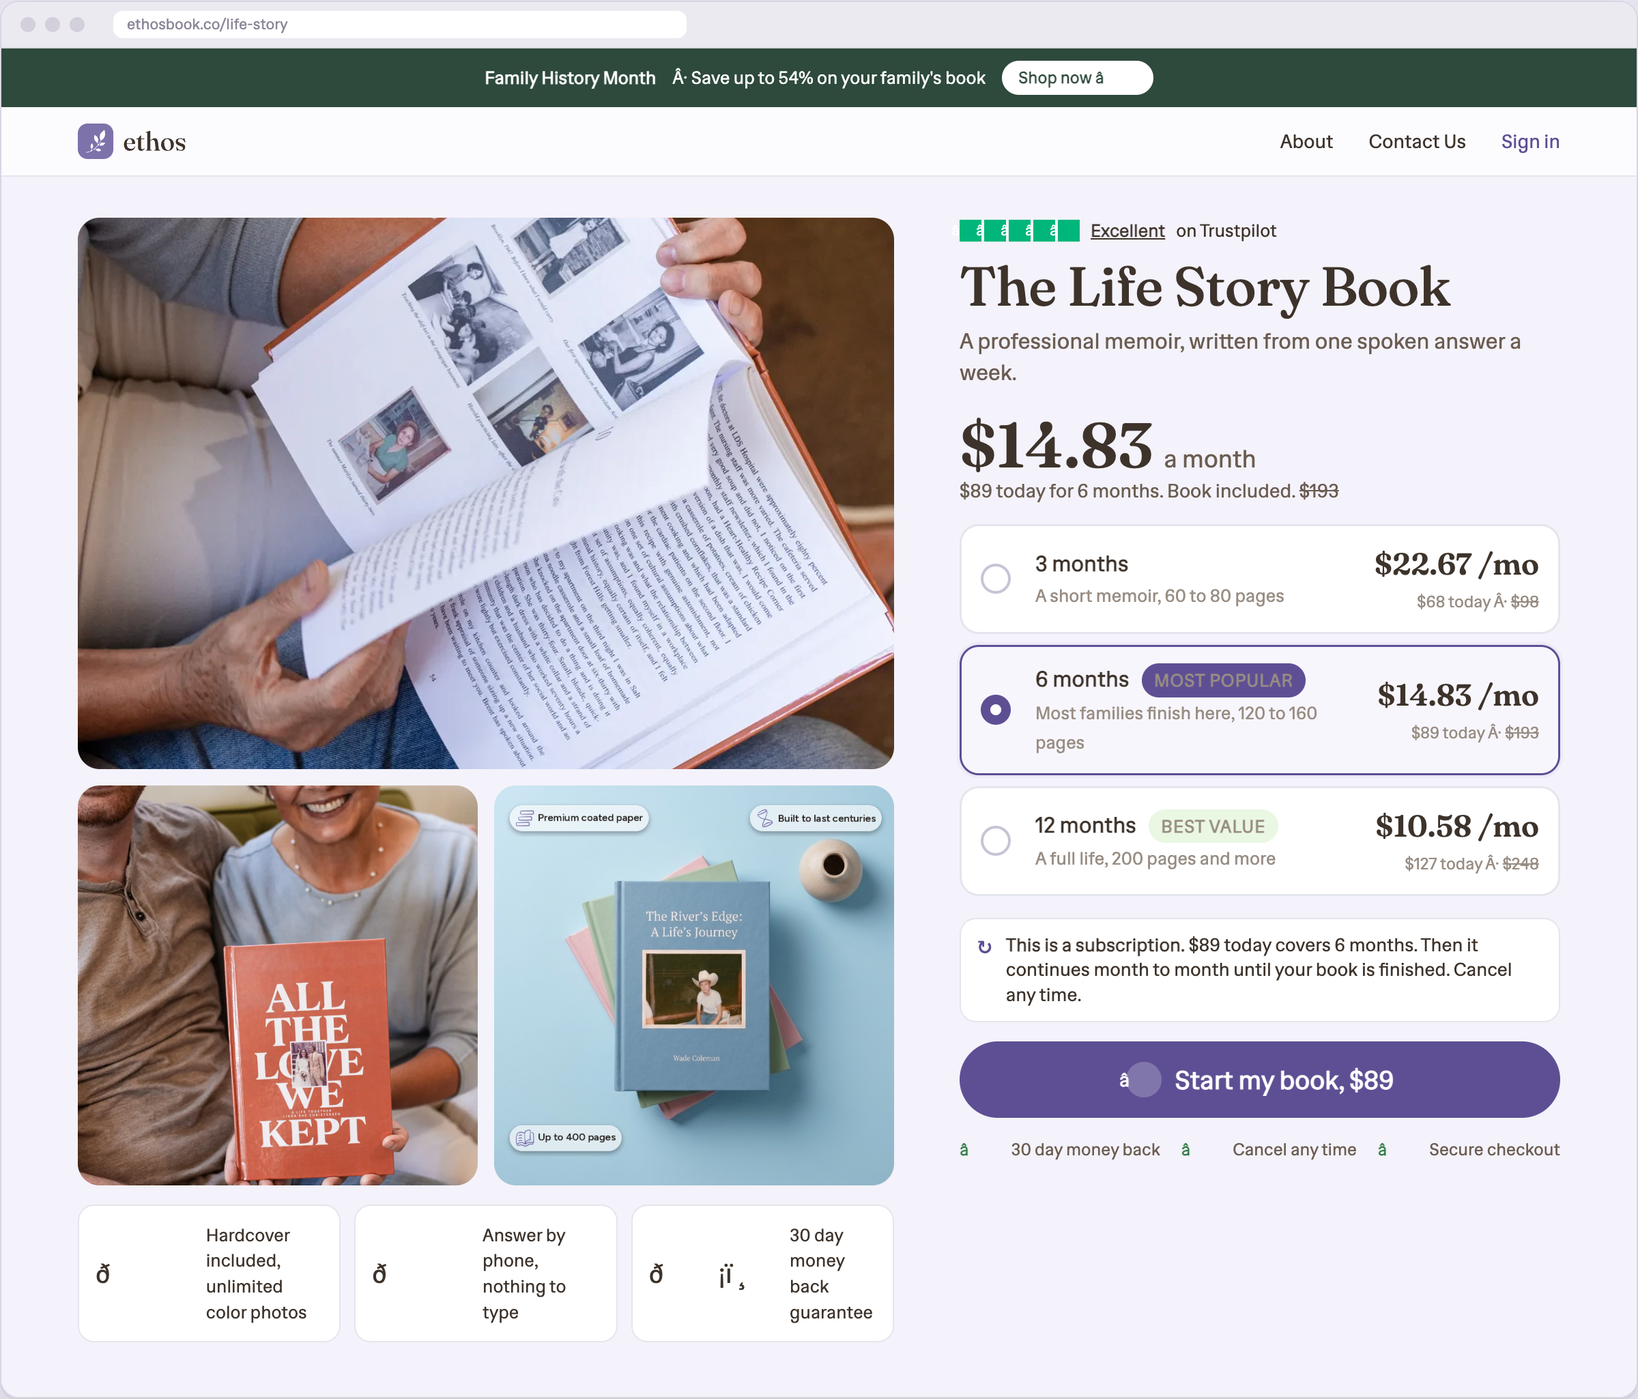
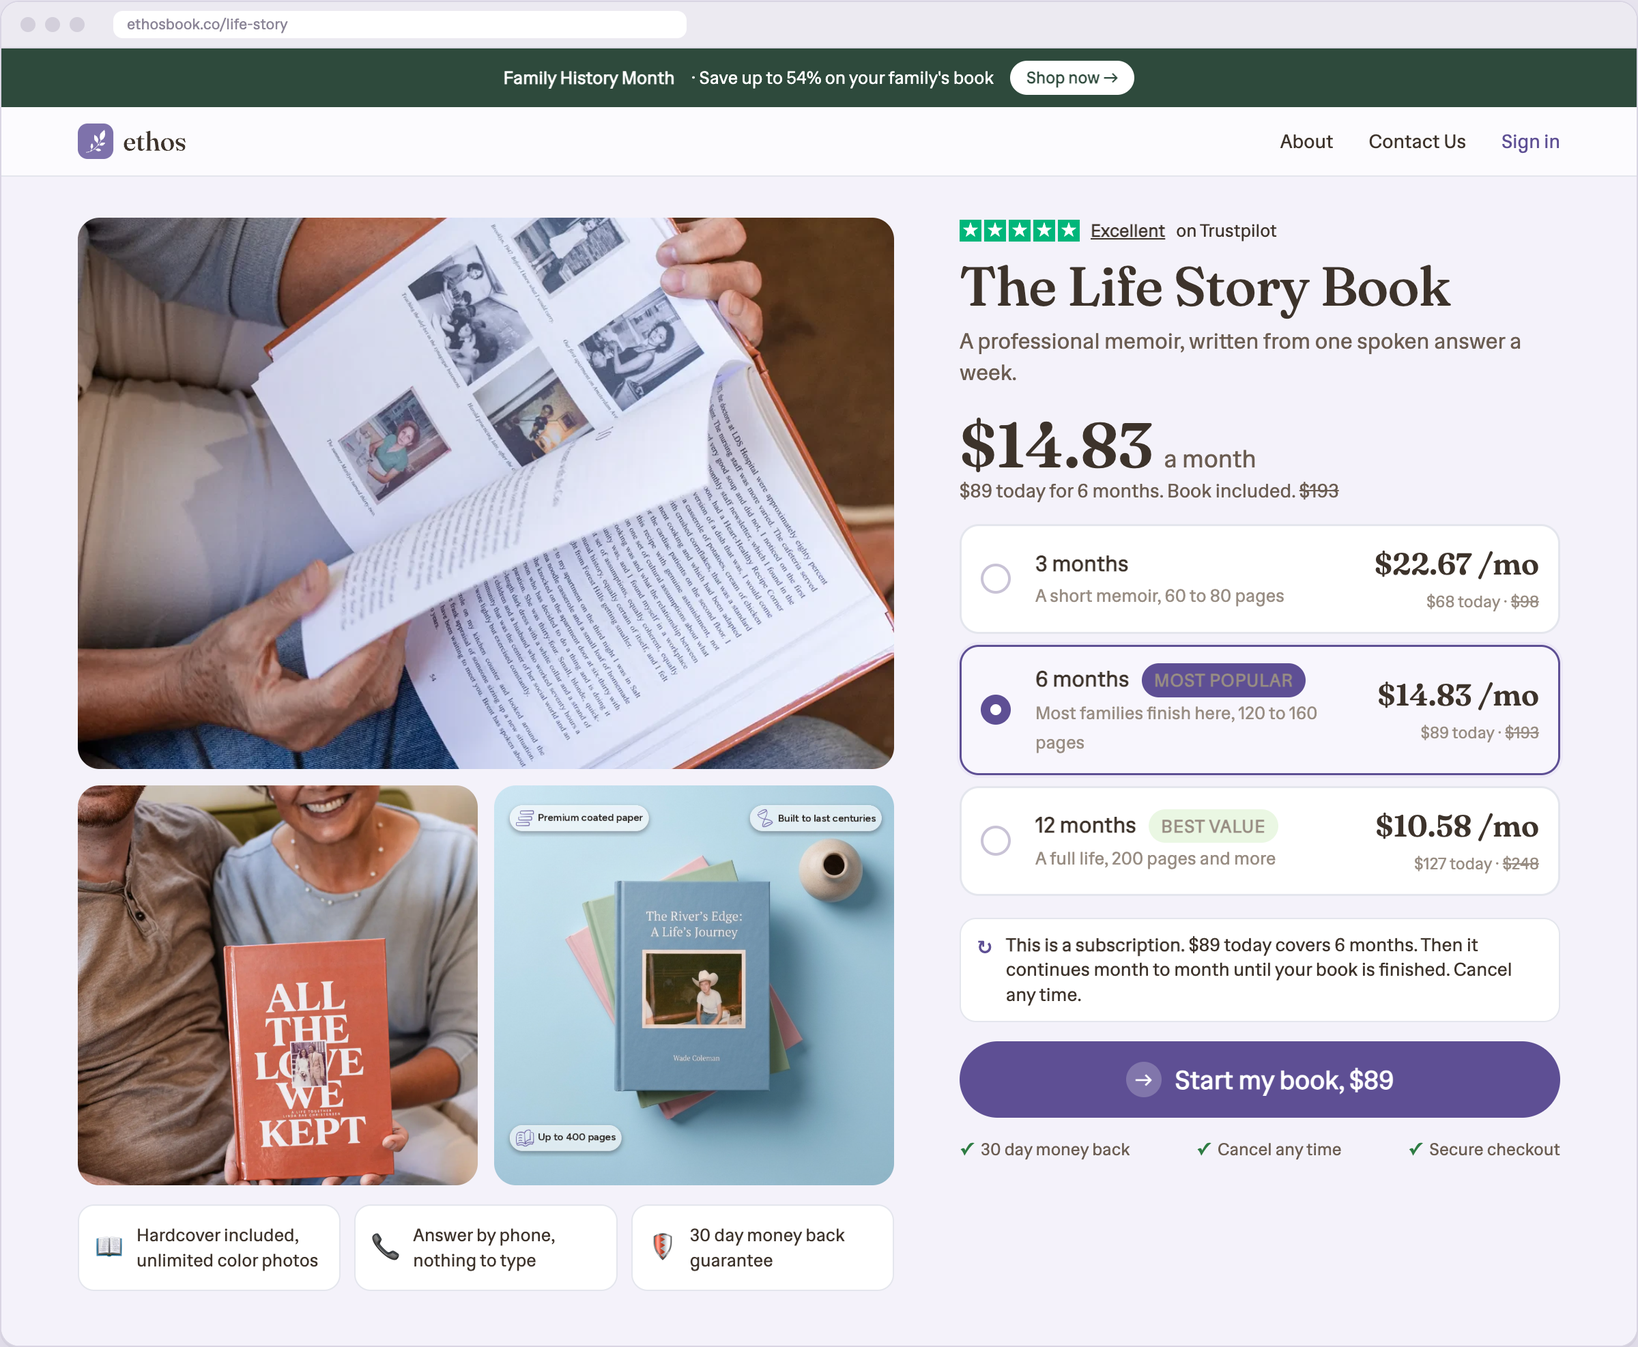
Clean rewrite + subscription note

diff --git a/product-page/desktop.html b/product-page/desktop.html
@@ -23,7 +23,6 @@
 .pdp{display:grid;grid-template-columns:1fr 440px;gap:48px;padding:30px 56px 40px}
 .gal{position:relative}.gal .main{width:100%;aspect-ratio:1;object-fit:cover;border-radius:18px;display:block}
 .thumbs{display:flex;gap:10px;margin-top:12px}.thumbs img{width:calc((100% - 40px)/5);aspect-ratio:1;object-fit:cover;border-radius:10px;border:2px solid transparent}.thumbs img.on{border-color:var(--accent)}
-.chip{position:absolute;background:rgba(255,255,255,.92);border-radius:999px;padding:6px 12px;font-size:12px;color:var(--ink);font-weight:600}
 .stars{display:inline-flex;gap:2px}.stars i{width:16px;height:16px;background:#00B67A;display:inline-flex;align-items:center;justify-content:center;color:#fff;font-size:11px;font-style:normal}
 .tp{display:flex;align-items:center;gap:8px;font-size:13px;color:var(--ink)}.tp b{text-decoration:underline}
 h1.t{font-family:var(--display);font-weight:500;font-size:40px;line-height:1.05;color:var(--ink);margin:10px 0 8px;letter-spacing:-.01em}
@@ -33,10 +32,8 @@ h1.t{font-family:var(--display);font-weight:500;font-size:40px;line-height:1.05;
 .trust{display:flex;justify-content:space-between;gap:10px;margin-top:14px;font-size:12.5px;color:var(--body)}.trust div{display:flex;align-items:center;gap:6px}.trust em{font-style:normal;color:var(--good);font-weight:700}
 .pay{display:flex;gap:6px;margin-top:12px}.pay span{border:1px solid var(--line);background:#fff;border-radius:6px;font-size:10px;font-weight:700;padding:5px 8px;color:#444}
 .subnote{display:flex;gap:10px;align-items:flex-start;background:#fff;border:1px solid var(--line);border-radius:12px;padding:10px 12px;font-size:13.5px;line-height:1.35;color:var(--ink);margin:0 0 14px}.subnote i{font-style:normal;font-size:18px;line-height:1;color:var(--accent)}.subnote b{font-weight:700}
-.fine{font-size:12.5px;color:var(--muted);margin-top:10px;line-height:1.4}
 .tag{display:inline-block;font-size:11px;font-weight:700;letter-spacing:.04em;text-transform:uppercase;border-radius:999px;padding:3px 9px}
 .tag.pop{background:var(--accent);color:#fff}.tag.save{background:var(--good-soft);color:var(--good)}
-/* B tiles */
 .tiles{display:grid;grid-template-columns:repeat(3,1fr);gap:10px;margin:14px 0 16px}
 .tile{border:1.5px solid var(--line);border-radius:14px;padding:12px 10px 10px;background:#fff;text-align:center;position:relative}
 .tile.on{border-color:var(--accent);background:#F8F6FD;box-shadow:0 0 0 2px var(--accent-soft)}
@@ -45,7 +42,6 @@ h1.t{font-family:var(--display);font-weight:500;font-size:40px;line-height:1.05;
 .price{display:flex;align-items:baseline;gap:10px;margin:4px 0 2px}.price .now{font-family:var(--display);font-size:40px;font-weight:600;color:var(--ink)}.price .was{font-size:18px;color:var(--muted);text-decoration:line-through}
 .pricenote{font-size:14px;color:var(--body);margin-bottom:2px}
 .inc{list-style:none;padding:0;margin:6px 0 16px;display:grid;grid-template-columns:1fr 1fr;gap:6px 14px;font-size:14px;color:var(--ink)}.inc li::before{content:"✓ ";color:var(--good);font-weight:700}
-/* C rows */
 .rows{display:grid;gap:8px;margin:14px 0 16px}
 .row{display:grid;grid-template-columns:28px 1fr auto;align-items:center;gap:12px;border:1.5px solid var(--line);border-radius:14px;padding:12px 14px;background:#fff}
 .row.on{border-color:var(--accent);background:#F8F6FD;box-shadow:0 0 0 2px var(--accent-soft)}
@@ -67,12 +63,10 @@ h1.t{font-family:var(--display);font-weight:500;font-size:40px;line-height:1.05;
 </style></head><body><div class="page">
 <div class="intro"><h1>Product page: four candidates, desktop</h1><p>A is the proposal as delivered. B, C, D are proper e-commerce product pages, each with a different way of showing the price. Above the fold only; everything below (FAQ, videos, reviews) stays as today.</p></div>
 
-<!-- A -->
 <div class="cand"><div class="cand-head"><div class="letter">A</div><div><h2>The proposal, as delivered <span class="pstyle">Price: red "Save up to 49%" pill + stacked plan cards + $177 extras list</span></h2><p>Gallery left, quiz offer card right. Two headlines compete (The Life Story Book, then How long do you want to write?). The left column ends at the guarantee while the right runs 2,000px. Red pill, green chips, violet card, orange label: four accent colors. Reads as the quiz sheet dropped onto a page.</p></div></div>
 <div class="frame"><div class="chrome"><i></i><i></i><i></i><div class="url">ethosbook.co/life-story</div></div><div class="crop"><img src="pdp-img/proposal-desktop.jpg" alt=""></div></div></div>
 
-<!-- B -->
-<div class="cand"><div class="cand-head"><div class="letter">B</div><div><h2>Classic buy box (IM8 / AG1 pattern) <span class="pstyle">Price: one big total, strike anchor, three plan tiles with per month</span></h2><p>One headline. Big image with thumbnails. Price first, plan tiles second, CTA, then the trust triple (money back, cancel any time, secure). Three accent colors at most.</p></div></div>
+<div class="cand"><div class="cand-head"><div class="letter">B</div><div><h2>Classic buy box (IM8 / AG1 pattern) <span class="pstyle">Price: one big total, strike anchor, three plan tiles with per month</span></h2><p>One headline. Big image with thumbnails. Price first, plan tiles second, subscription note, CTA, then the trust triple (money back, cancel any time, secure).</p></div></div>
 <div class="frame"><div class="chrome"><i></i><i></i><i></i><div class="url">ethosbook.co/life-story</div></div><div class="site">
 <div class="banner"><b>Family History Month</b> · Save up to 54% on your family's book <span class="shop">Shop now →</span></div>
 <div class="nav"><div class="logo"><img src="pdp-img/logo.svg" alt="ethos"></div><div class="links"><span>About</span><span>Contact Us</span><span class="in">Sign in</span></div></div>
@@ -91,4 +85,58 @@ h1.t{font-family:var(--display);font-weight:500;font-size:40px;line-height:1.05;
    <div class="tile"><div class="m">12 months</div><div class="p">$127</div><div class="pm">$10.58 / month</div><div class="was">$248</div></div>
   </div>
   <ul class="inc"><li>1 hardcover book ($69)</li><li>Unlimited color photos</li><li>Weekly questions by email</li><li>E-book and audio copy</li></ul>
-  <div class="subnote"><i>
+  <div class="subnote"><i>↻</i><div><b>This is a subscription.</b> $89 covers your first 6 months. After that it continues month to month until your book is finished. Cancel any time.</div></div>
+  <div class="cta"><span class="ar">→</span>Start my book</div>
+  <div class="trust"><div><em>✓</em>30 day money back</div><div><em>✓</em>Cancel any time</div><div><em>✓</em>Secure checkout</div></div>
+  <div class="pay"><span>VISA</span><span>MASTERCARD</span><span>AMEX</span><span>Apple Pay</span><span>G Pay</span><span>PayPal</span></div>
+ </div></div></div></div></div>
+
+<div class="cand"><div class="cand-head"><div class="letter">C</div><div><h2>Per-month framing (subscription first) <span class="pstyle">Price: big "$14.83 a month", total in the row, plan picker as plain radio rows</span></h2><p>Leads with the monthly number, the way IM8 shows "$78 /mo". Each row says what you pay today and per month. Two-image gallery, benefits strip underneath.</p></div></div>
+<div class="frame"><div class="chrome"><i></i><i></i><i></i><div class="url">ethosbook.co/life-story</div></div><div class="site">
+<div class="banner"><b>Family History Month</b> · Save up to 54% on your family's book <span class="shop">Shop now →</span></div>
+<div class="nav"><div class="logo"><img src="pdp-img/logo.svg" alt="ethos"></div><div class="links"><span>About</span><span>Contact Us</span><span class="in">Sign in</span></div></div>
+<div class="pdp">
+ <div><div class="gal2"><img class="big" src="pdp-img/gallery-open-spread-hands.opt.webp"><img src="pdp-img/gallery-mom-holding-book.opt.webp" style="object-position:center 15%"><img src="pdp-img/tile-7-books.jpg"></div>
+  <div class="benefits"><div><i>📖</i>Hardcover included, unlimited color photos</div><div><i>📞</i>Answer by phone, nothing to type</div><div><i>🛡</i>30 day money back guarantee</div></div></div>
+ <div class="buy">
+  <div class="tp"><div class="stars"><i>★</i><i>★</i><i>★</i><i>★</i><i>★</i></div><b>Excellent</b> on Trustpilot</div>
+  <h1 class="t">The Life Story Book</h1>
+  <p class="sub">A professional memoir, written from one spoken answer a week.</p>
+  <div class="bigpm"><span class="n">$14.83</span><span class="u">a month</span></div>
+  <div class="pricenote">$89 today for 6 months. Book included. <s>$193</s></div>
+  <div class="rows">
+   <div class="row"><div class="radio"></div><div class="l"><b>3 months</b><span>A short memoir, 60 to 80 pages</span></div><div class="r"><b>$22.67 /mo</b><span>$68 today · <s>$98</s></span></div></div>
+   <div class="row on"><div class="radio"></div><div class="l"><b>6 months <span class="tag pop" style="margin-left:6px">Most popular</span></b><span>Most families finish here, 120 to 160 pages</span></div><div class="r"><b>$14.83 /mo</b><span>$89 today · <s>$193</s></span></div></div>
+   <div class="row"><div class="radio"></div><div class="l"><b>12 months <span class="tag save" style="margin-left:6px">Best value</span></b><span>A full life, 200 pages and more</span></div><div class="r"><b>$10.58 /mo</b><span>$127 today · <s>$248</s></span></div></div>
+  </div>
+  <div class="subnote"><i>↻</i><div><b>This is a subscription.</b> $89 today covers 6 months. Then it continues month to month until your book is finished. Cancel any time.</div></div>
+  <div class="cta"><span class="ar">→</span>Start my book, $89</div>
+  <div class="trust"><div><em>✓</em>30 day money back</div><div><em>✓</em>Cancel any time</div><div><em>✓</em>Secure checkout</div></div>
+ </div></div></div></div></div>
+
+<div class="cand"><div class="cand-head"><div class="letter">D</div><div><h2>Plain words, gift choice on the page <span class="pstyle">Price: one price, strike anchor, plan rows in words; "For myself / A gift" as two big cards, not a slider</span></h2><p>Built for a 70 year old buyer. One price, one button. The who-is-it-for choice is two cards with icons on the product page itself, so the pop-up checkout opens already knowing. No per-month math.</p></div></div>
+<div class="frame"><div class="chrome"><i></i><i></i><i></i><div class="url">ethosbook.co/life-story</div></div><div class="site">
+<div class="banner"><b>Family History Month</b> · Save up to 54% on your family's book <span class="shop">Shop now →</span></div>
+<div class="nav"><div class="logo"><img src="pdp-img/logo.svg" alt="ethos"></div><div class="links"><span>About</span><span>Contact Us</span><span class="in">Sign in</span></div></div>
+<div class="pdp">
+ <div class="gal"><img class="main" src="pdp-img/gallery-mom-holding-book.opt.webp" alt=""><div class="thumbs"><img class="on" src="pdp-img/gallery-mom-holding-book.opt.webp"><img src="pdp-img/gallery-open-spread-hands.opt.webp"><img src="pdp-img/love-we-kept-cover.webp"><img src="pdp-img/tile-2-book.jpg"><img src="pdp-img/tile-7-books.jpg"></div>
+  <div class="guar"><span class="sh">🛡</span><div><b>30 day money back guarantee</b>No questions asked. Fewer than 1% of families ask for their money back.</div></div></div>
+ <div class="buy">
+  <h1 class="t" style="margin-top:0">The Life Story Book</h1>
+  <div class="tp" style="margin-bottom:14px"><div class="stars"><i>★</i><i>★</i><i>★</i><i>★</i><i>★</i></div><b>Excellent</b> · Loved by 2,400 American families</div>
+  <div class="price"><span class="now">$89</span><span class="was">$193</span><span class="tag save">You save $104</span></div>
+  <div class="pricenote" style="margin-bottom:16px">Hardcover book, 6 months of weekly questions, unlimited photos in color.</div>
+  <p class="lbl">Who is the book about?</p>
+  <div class="who"><div class="on"><div class="ic">🙋</div><div><b>Myself</b><span>I will answer the questions</span></div></div><div><div class="ic">🎁</div><div><b>A gift</b><span>Mom, Dad, a grandparent</span></div></div></div>
+  <p class="lbl">How long do they write?</p>
+  <div class="rows" style="margin-top:0">
+   <div class="row"><div class="radio"></div><div class="l"><b>3 months</b><span>A short book</span></div><div class="r"><b>$68</b><s>$98</s></div></div>
+   <div class="row on"><div class="radio"></div><div class="l"><b>6 months</b><span>Most families choose this</span></div><div class="r"><b>$89</b><s>$193</s></div></div>
+   <div class="row"><div class="radio"></div><div class="l"><b>12 months</b><span>A full life story</span></div><div class="r"><b>$127</b><s>$248</s></div></div>
+  </div>
+  <div class="subnote"><i>↻</i><div><b>This is a subscription.</b> $89 covers the first 6 months. After that it continues month to month until the book is finished. Cancel any time.</div></div>
+  <div class="cta"><span class="ar">→</span>Start my book</div>
+  <div class="trust"><div><em>✓</em>30 day money back</div><div><em>✓</em>Cancel any time</div><div><em>✓</em>Secure checkout</div></div>
+  <div class="pay"><span>VISA</span><span>MASTERCARD</span><span>AMEX</span><span>Apple Pay</span><span>G Pay</span><span>PayPal</span></div>
+ </div></div></div></div></div>
+</div></body></html>

diff --git a/product-page/mobile.html b/product-page/mobile.html
@@ -25,7 +25,6 @@ h1.t{font-family:var(--display);font-weight:500;font-size:30px;line-height:1.08;
 .trust{display:flex;justify-content:space-between;gap:6px;margin-top:12px;font-size:12px;color:var(--body)}.trust div{display:flex;align-items:center;gap:4px}.trust em{font-style:normal;color:var(--good);font-weight:700}
 .pay{display:flex;gap:5px;margin-top:10px;flex-wrap:wrap}.pay span{border:1px solid var(--line);background:#fff;border-radius:6px;font-size:10px;font-weight:700;padding:4px 7px;color:#444}
 .subnote{display:flex;gap:10px;align-items:flex-start;background:#fff;border:1px solid var(--line);border-radius:12px;padding:10px 12px;font-size:13.5px;line-height:1.35;color:var(--ink);margin:0 0 14px}.subnote i{font-style:normal;font-size:18px;line-height:1;color:var(--accent)}.subnote b{font-weight:700}
-.fine{font-size:12px;color:var(--muted);margin-top:10px;line-height:1.4}
 .tag{display:inline-block;font-size:10.5px;font-weight:700;letter-spacing:.04em;text-transform:uppercase;border-radius:999px;padding:3px 8px}.tag.pop{background:var(--accent);color:#fff}.tag.save{background:var(--good-soft);color:var(--good)}
 .price{display:flex;align-items:baseline;gap:8px;margin:2px 0 2px;flex-wrap:wrap}.price .now{font-family:var(--display);font-size:38px;font-weight:600;color:var(--ink)}.price .was{font-size:17px;color:var(--muted);text-decoration:line-through}
 .pricenote{font-size:14px;color:var(--body)}
@@ -72,4 +71,57 @@ h1.t{font-family:var(--display);font-weight:500;font-size:30px;line-height:1.08;
   <div class="tile"><div class="m">12 months</div><div class="p">$127</div><div class="pm">$10.58 / mo</div><div class="was">$248</div></div>
  </div>
  <ul class="inc"><li>1 hardcover book ($69)</li><li>Unlimited color photos</li><li>Weekly questions by email</li><li>E-book and audio copy</li></ul>
- <div class="subnote"><i>
+ <div class="subnote"><i>↻</i><div><b>This is a subscription.</b> $89 covers your first 6 months. After that it continues month to month until your book is finished. Cancel any time.</div></div>
+ <div class="cta"><span class="ar">→</span>Start my book</div>
+ <div class="trust"><div><em>✓</em>30 day money back</div><div><em>✓</em>Cancel any time</div><div><em>✓</em>Secure</div></div>
+ <div class="pay"><span>VISA</span><span>MASTERCARD</span><span>AMEX</span><span>Apple Pay</span><span>G Pay</span><span>PayPal</span></div>
+</div></div></div></div>
+
+<div class="cell"><div class="head"><div class="letter">C</div><h2>Per month</h2></div>
+<div class="phone"><div class="site">
+<div class="banner"><b>Family History Month</b> · Save up to 54% <span class="shop">Shop</span></div>
+<div class="nav"><div class="ham"></div><img src="pdp-img/logo.svg" alt="ethos"><div style="width:22px"></div></div>
+<div class="pad">
+ <div class="gal2"><img class="big" src="pdp-img/gallery-open-spread-hands.opt.webp"><img src="pdp-img/gallery-mom-holding-book.opt.webp" style="object-position:center 15%"><img src="pdp-img/tile-7-books.jpg"></div>
+ <div class="tp"><div class="stars"><i>★</i><i>★</i><i>★</i><i>★</i><i>★</i></div><b>Excellent</b> on Trustpilot</div>
+ <h1 class="t">The Life Story Book</h1>
+ <p class="sub">A professional memoir, written from one spoken answer a week.</p>
+ <div class="bigpm"><span class="n">$14.83</span><span class="u">a month</span></div>
+ <div class="pricenote">$89 today for 6 months. Book included. <s>$193</s></div>
+ <div class="rows">
+  <div class="row"><div class="radio"></div><div class="l"><b>3 months</b><span>A short memoir</span></div><div class="r"><b>$22.67 /mo</b><span>$68 today · <s>$98</s></span></div></div>
+  <div class="row on"><div class="radio"></div><div class="l"><b>6 months</b><span>Most families finish here</span></div><div class="r"><b>$14.83 /mo</b><span>$89 today · <s>$193</s></span></div></div>
+  <div class="row"><div class="radio"></div><div class="l"><b>12 months</b><span>A full life</span></div><div class="r"><b>$10.58 /mo</b><span>$127 today · <s>$248</s></span></div></div>
+ </div>
+ <div class="subnote"><i>↻</i><div><b>This is a subscription.</b> $89 today covers 6 months. Then it continues month to month until your book is finished. Cancel any time.</div></div>
+ <div class="cta"><span class="ar">→</span>Start my book, $89</div>
+ <div class="trust"><div><em>✓</em>30 day money back</div><div><em>✓</em>Cancel any time</div><div><em>✓</em>Secure</div></div>
+ <div class="benefits"><div><i>📖</i>Hardcover included, unlimited color photos</div><div><i>📞</i>Answer by phone, nothing to type</div></div>
+</div></div></div></div>
+
+<div class="cell"><div class="head"><div class="letter">D</div><h2>Plain words, gift on page</h2></div>
+<div class="phone"><div class="site">
+<div class="banner"><b>Family History Month</b> · Save up to 54% <span class="shop">Shop</span></div>
+<div class="nav"><div class="ham"></div><img src="pdp-img/logo.svg" alt="ethos"><div style="width:22px"></div></div>
+<div class="pad">
+ <img class="main" src="pdp-img/gallery-mom-holding-book.opt.webp" alt="">
+ <div class="thumbs"><img class="on" src="pdp-img/gallery-mom-holding-book.opt.webp"><img src="pdp-img/gallery-open-spread-hands.opt.webp"><img src="pdp-img/love-we-kept-cover.webp"><img src="pdp-img/tile-2-book.jpg"><img src="pdp-img/tile-7-books.jpg"></div>
+ <h1 class="t" style="margin-top:14px">The Life Story Book</h1>
+ <div class="tp" style="margin:0 0 12px"><div class="stars"><i>★</i><i>★</i><i>★</i><i>★</i><i>★</i></div><b>Excellent</b> · 2,400 families</div>
+ <div class="price"><span class="now">$89</span><span class="was">$193</span><span class="tag save">You save $104</span></div>
+ <div class="pricenote" style="margin-bottom:14px">Hardcover book, 6 months of weekly questions, unlimited photos in color.</div>
+ <p class="lbl">Who is the book about?</p>
+ <div class="who"><div class="on"><div class="ic">🙋</div><div><b>Myself</b><span>I answer the questions</span></div></div><div><div class="ic">🎁</div><div><b>A gift</b><span>Mom, Dad, a grandparent</span></div></div></div>
+ <p class="lbl">How long do they write?</p>
+ <div class="rows" style="margin-top:0">
+  <div class="row"><div class="radio"></div><div class="l"><b>3 months</b><span>A short book</span></div><div class="r"><b>$68</b><s>$98</s></div></div>
+  <div class="row on"><div class="radio"></div><div class="l"><b>6 months</b><span>Most families choose this</span></div><div class="r"><b>$89</b><s>$193</s></div></div>
+  <div class="row"><div class="radio"></div><div class="l"><b>12 months</b><span>A full life story</span></div><div class="r"><b>$127</b><s>$248</s></div></div>
+ </div>
+ <div class="subnote"><i>↻</i><div><b>This is a subscription.</b> $89 covers the first 6 months. After that it continues month to month until the book is finished. Cancel any time.</div></div>
+ <div class="cta"><span class="ar">→</span>Start my book</div>
+ <div class="trust"><div><em>✓</em>30 day money back</div><div><em>✓</em>Cancel any time</div><div><em>✓</em>Secure</div></div>
+ <div class="guar"><span class="sh">🛡</span><div><b>30 day money back guarantee</b>No questions asked.</div></div>
+</div></div></div></div>
+
+</div></div></body></html>
